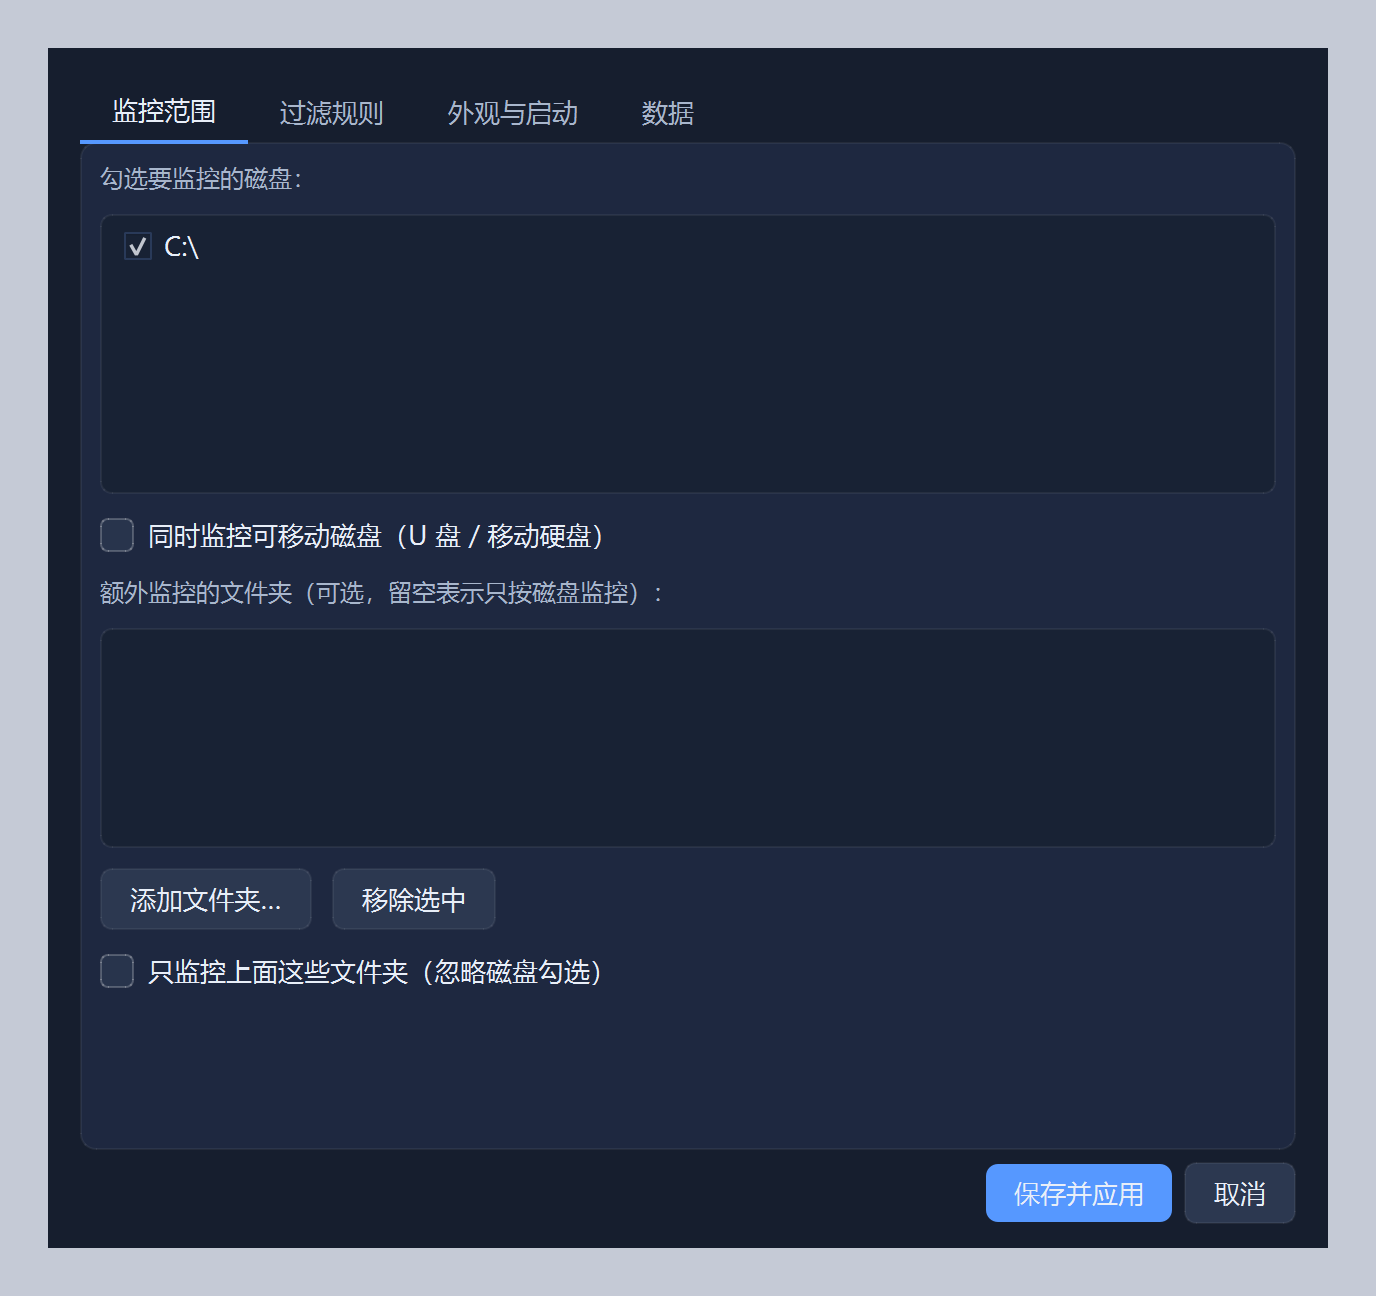
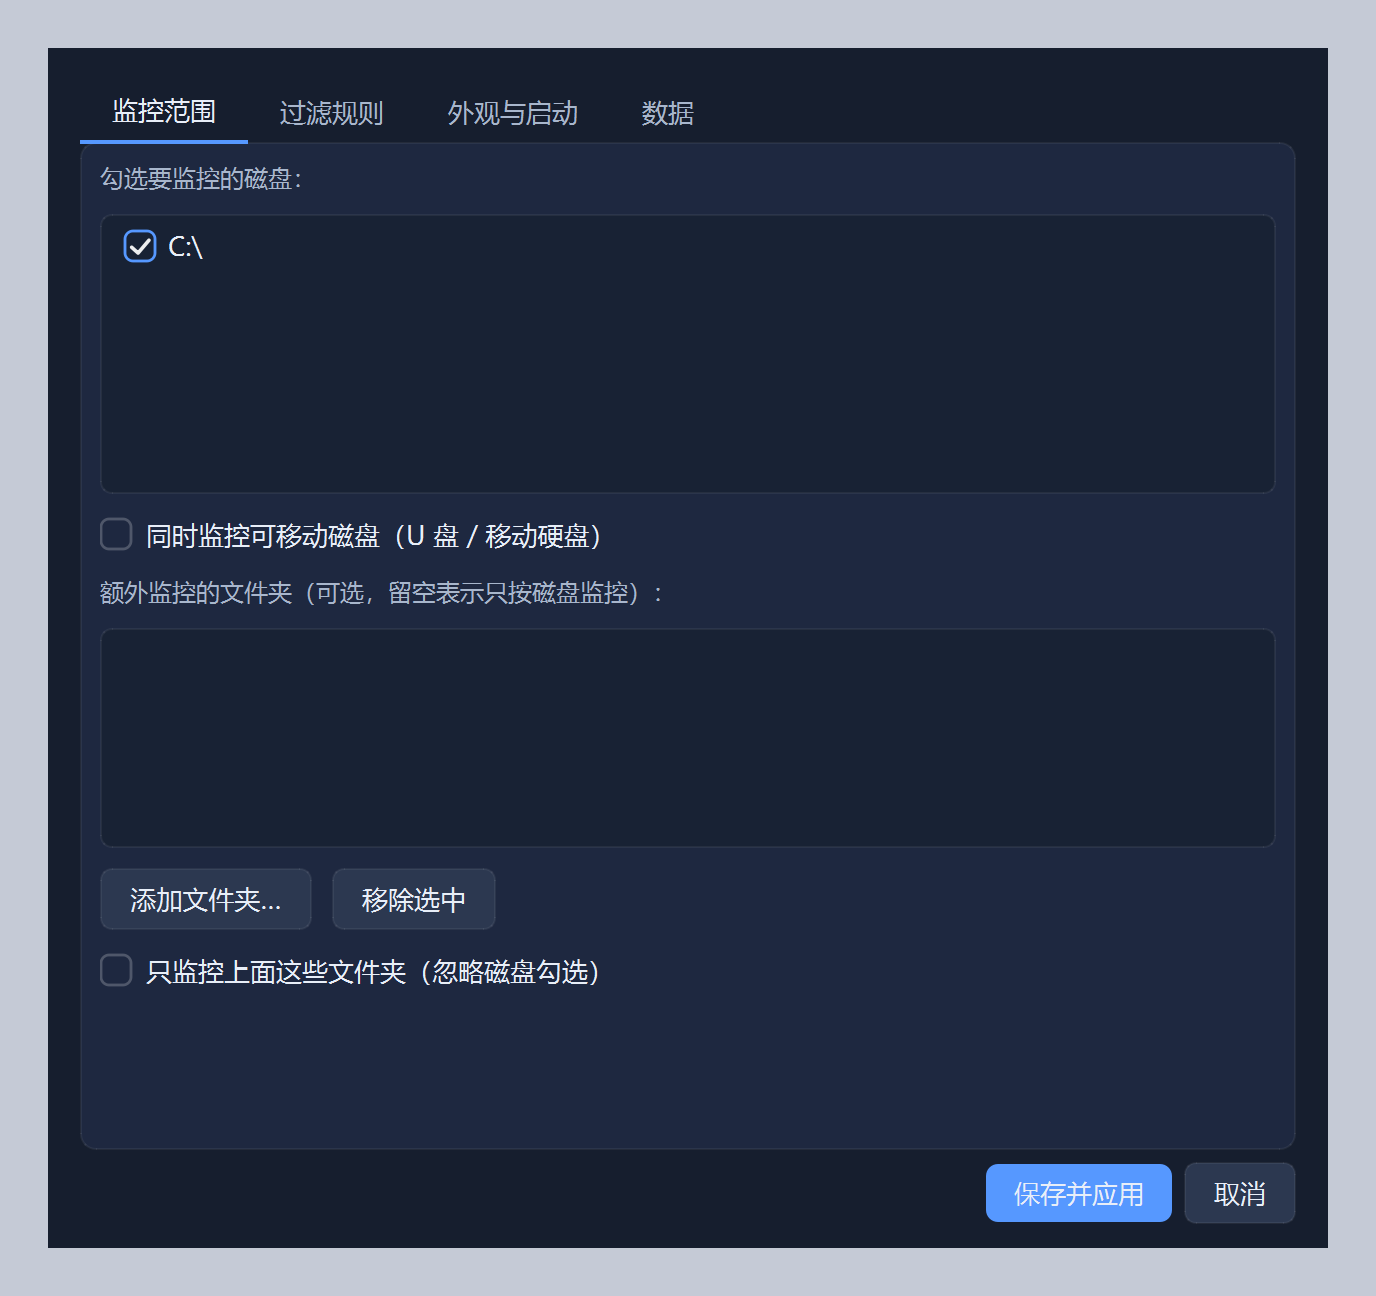
ui: checkbox indicator as hollow box + checkmark instead of filled block
QSS 无法在 QCheckBox::indicator 里画勾号（checked 会被 ACCENT 整块填充吞掉），
改为 QProxyStyle 自定义绘制：未选中=空心圆角框，选中=蓝色框+白色勾号，
hover 边框提亮。同步更新 settings 截图。

Changed region(s): [[0.0938, 0.7407, 0.4375, 0.7716], [0.0938, 0.4012, 0.4375, 0.4321], [0.0938, 0.1543, 0.1562, 0.216]]

diff --git a/diskwatch/ui/style.py b/diskwatch/ui/style.py
@@ -19,9 +19,10 @@ from PySide6.QtGui import (
     QPainter,
     QPainterPath,
     QPalette,
+    QPen,
     QPixmap,
 )
-from PySide6.QtWidgets import QWidget
+from PySide6.QtWidgets import QProxyStyle, QStyle, QWidget
 
 # ---------- 色板 ----------
 
@@ -174,14 +175,6 @@ QScrollBar::handle:vertical {{
 QScrollBar::add-line, QScrollBar::sub-line {{ height: 0px; }}
 QCheckBox, QSpinBox, QPlainTextEdit, QListWidget {{ color: {TEXT}; }}
 QCheckBox {{ spacing: 7px; padding: 2px 0px; }}
-QCheckBox::indicator {{
-    width: 15px; height: 15px; border-radius: 4px;
-    border: 1px solid rgba(255,255,255,0.22); background: {FIELD};
-}}
-QCheckBox::indicator:hover {{ border-color: rgba(255,255,255,0.38); }}
-QCheckBox::indicator:checked {{
-    background: {ACCENT.name()}; border-color: {ACCENT.name()};
-}}
 QPlainTextEdit, QListWidget {{
     background: {BASE}; border: 1px solid rgba(255,255,255,0.06);
     border-radius: 6px; padding: 4px;
@@ -270,6 +263,63 @@ def prefer_ui_font(app) -> None:
             return
 
 
+class _CheckStyle(QProxyStyle):
+    """深色主题下的勾选框：空心圆角框 + 勾号（不用填充块）。
+
+    样式表没法在 indicator 里画勾号（会被 ACCENT 整块填充吞掉），
+    所以 indicator 的绘制交给这里：未选=空心框，选中=蓝色框 + 白色勾号。
+    """
+
+    _BORDER = QColor(255, 255, 255, 56)     # rgba(255,255,255,0.22)
+    _BORDER_HOVER = QColor(255, 255, 255, 97)
+    _CHECK = QColor(255, 255, 255, 235)
+
+    def drawPrimitive(
+        self,
+        element: QStyle.PrimitiveElement,
+        option,
+        painter,
+        widget=None,
+    ) -> None:
+        if element != QStyle.PE_IndicatorCheckBox:
+            super().drawPrimitive(element, option, painter, widget)
+            return
+        painter.save()
+        painter.setRenderHint(QPainter.Antialiasing)
+        r = option.rect
+        box = QRectF(r.x() + 0.5, r.y() + 0.5, r.width() - 1, r.height() - 1)
+        hovered = bool(option.state & QStyle.State_MouseOver)
+        checked = bool(option.state & QStyle.State_On)
+
+        border = ACCENT if checked else (
+            self._BORDER_HOVER if hovered else self._BORDER
+        )
+        painter.setPen(QPen(border, 1.4))
+        painter.setBrush(Qt.NoBrush)
+        painter.drawRoundedRect(box, 4, 4)
+
+        if checked:
+            pen = QPen(self._CHECK, 1.8)
+            pen.setCapStyle(Qt.RoundCap)
+            pen.setJoinStyle(Qt.RoundJoin)
+            painter.setPen(pen)
+            path = QPainterPath()
+            x, y = r.x(), r.y()
+            w, h = r.width(), r.height()
+            path.moveTo(x + w * 0.24, y + h * 0.54)
+            path.lineTo(x + w * 0.44, y + h * 0.72)
+            path.lineTo(x + w * 0.78, y + h * 0.32)
+            painter.drawPath(path)
+        painter.restore()
+
+    def pixelMetric(self, metric, option=None, widget=None) -> int:
+        if metric == QStyle.PM_IndicatorWidth:
+            return 16
+        if metric == QStyle.PM_IndicatorHeight:
+            return 16
+        return super().pixelMetric(metric, option, widget)
+
+
 def apply_dark_theme(app) -> None:
     """统一深色调色板。
 
@@ -277,6 +327,8 @@ def apply_dark_theme(app) -> None:
     不设的话在浅色系统主题下会出现浅字压浅底。
     """
     app.setStyle("Fusion")
+    # 勾选框由代理样式绘制（QSS 无法在 indicator 里画勾号）
+    app.setStyle(_CheckStyle(app.style()))
     prefer_ui_font(app)
     # Qt 6.5+：告诉系统本应用偏好深色，部分原生控件/标题栏会跟着变
     try:
